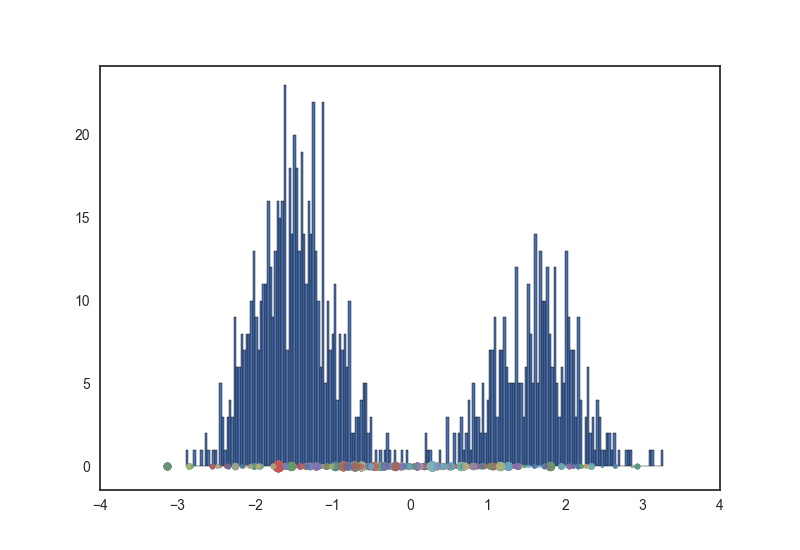
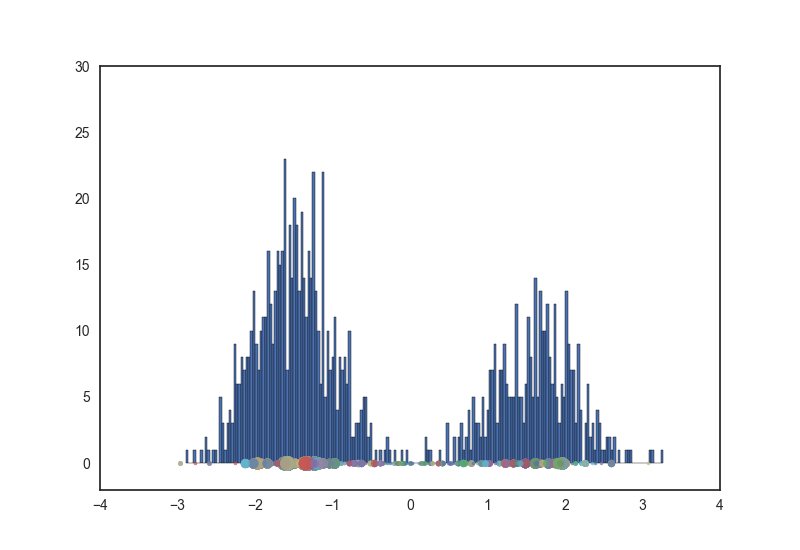
Update .gitignore

diff --git a/dp-cluster/scripts/alg1_numpy.py b/dp-cluster/scripts/alg1_numpy.py
@@ -8,7 +8,7 @@ import matplotlib.pyplot as plt
 import seaborn as sns; sns.set()
 sns.set_style('white')
 
-def sample_theta_from_conditional(data, thetas, hp, i, baseMeasure):
+def sample_theta_from_conditional(data, thetas, hp, i, baseMeasure, clusterDistributions):
     """Sample ith from distribution of thetas conditioned by
     all the other thetas and ith data point.
     """
@@ -19,12 +19,11 @@ def sample_theta_from_conditional(data, thetas, hp, i, baseMeasure):
     # y is the data point that we focus on.
     # theta is the parameters that we are going to update.
     y, theta = data[i], thetas[i]
-    clusterDistribution = NormalDistribution(mean=theta, cov=CLUSTER_VAR)
-    qs = np.array([clusterDistribution.pdf(y) for j, theta in enumerate(thetas) if i != j])
+    qs = np.array([clusterDistributions[j].pdf(y) for j, thetaJ in enumerate(thetas) if i != j])
 
     H = baseMeasure.posterior_distribution(data=[y], clusterVariance=CLUSTER_VAR)
     theta = np.zeros(DIMENSION)  # Value of theta doesn't matter.
-    logLikelihood = clusterDistribution.logpdf(y)
+    logLikelihood = clusterDistributions[i].logpdf(y)
     prior = baseMeasure.logpdf(theta)
     posterior = H.logpdf(theta)
     r = ALPHA * np.exp(logLikelihood + prior - posterior)
@@ -76,14 +75,17 @@ def main():
     data = np.loadtxt(args.input)
     thetas = np.random.normal(loc=args.hpmean, scale=args.hpvar, size=[len(data), dimension])
     baseMeasure = NormalDistribution(mean=hpmean, cov=hpvar)
+    clusterDistribution = [NormalDistribution(mean=theta, cov=hyperparameters['CLUSTER_VAR']) for theta in thetas]
 
     for iteration in range(args.numiter):
         logging.info('Iteration %d' % (iteration + 1))
         for i in range(len(data)):
-            thetas[i] = sample_theta_from_conditional(data, thetas, hyperparameters, i, baseMeasure)
+            thetas[i] = sample_theta_from_conditional(data, thetas, hyperparameters, i, baseMeasure, clusterDistribution)
+            clusterDistribution[i] = NormalDistribution(mean=thetas[i], cov=hyperparameters['CLUSTER_VAR'])
 
         thetaCounts = Counter(list(map(lambda x: x[0], thetas)))
         plt.xlim((-4, 4))
+        plt.ylim((-2, 30))
         plt.hist(data, histtype='bar', bins=len(data) // 5, ec='black')
         for theta in thetas:
             plt.scatter(theta[0], y=0, alpha=0.66, zorder=2, s=thetaCounts[theta[0]] * 5)
